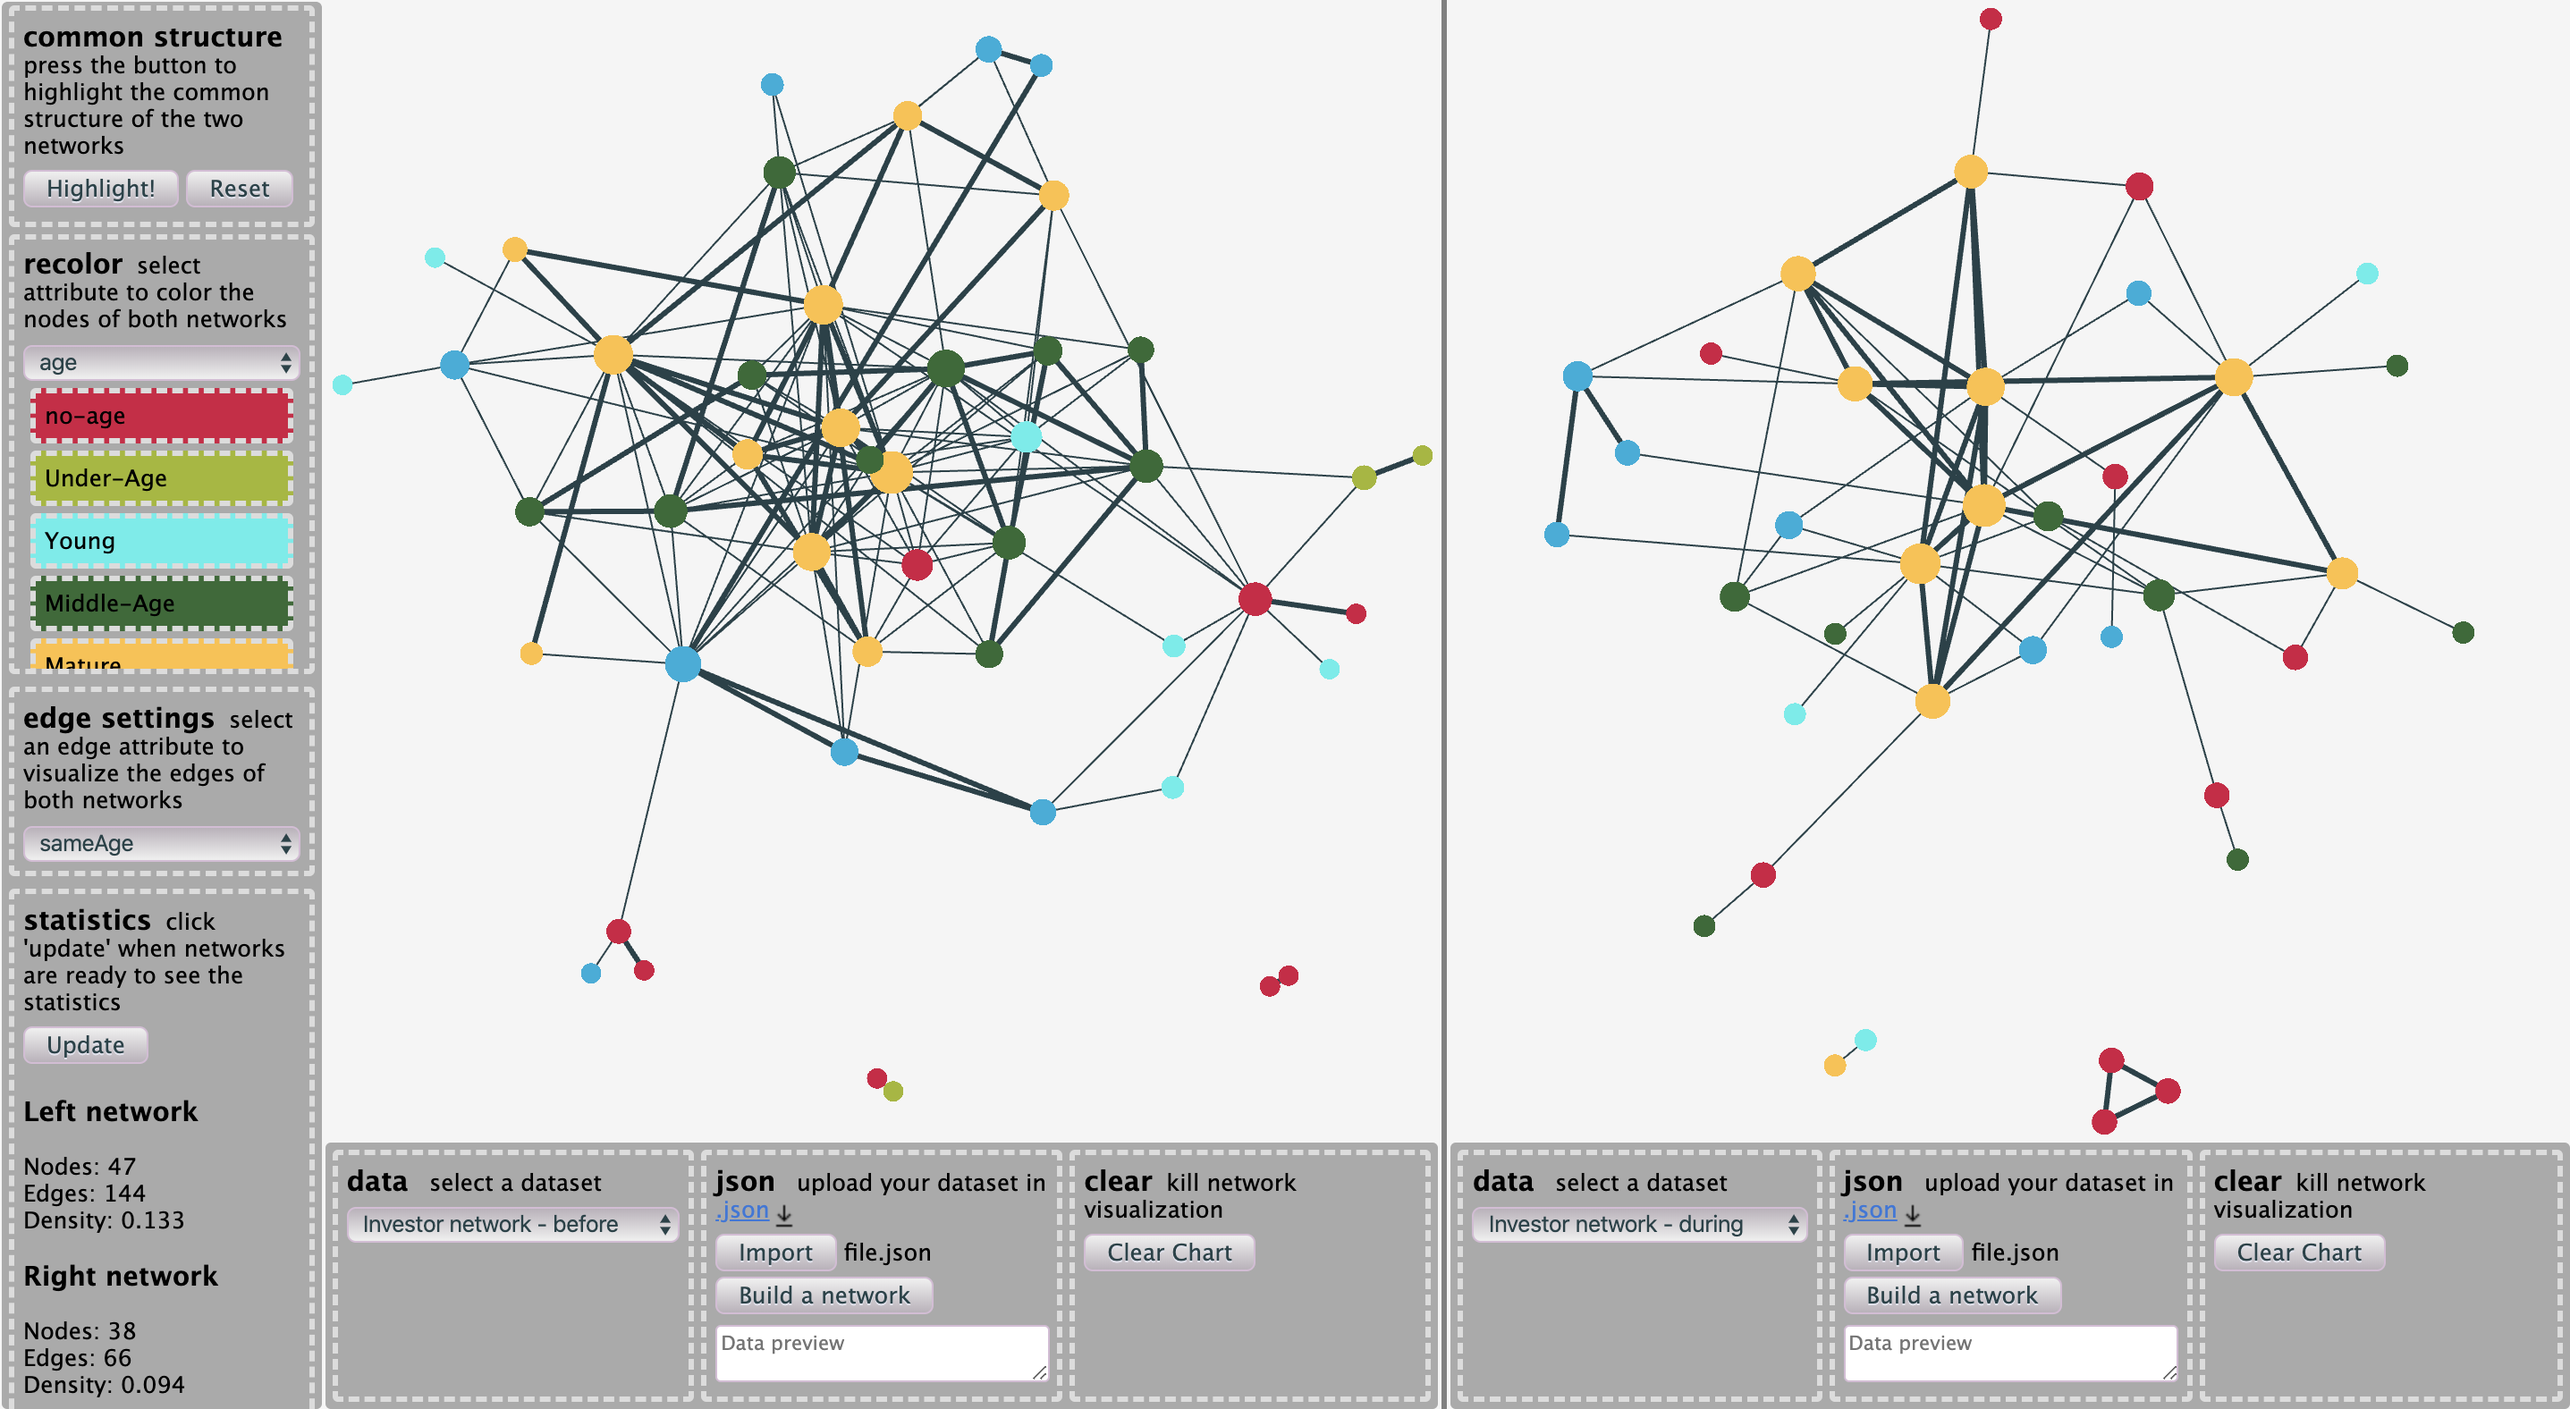
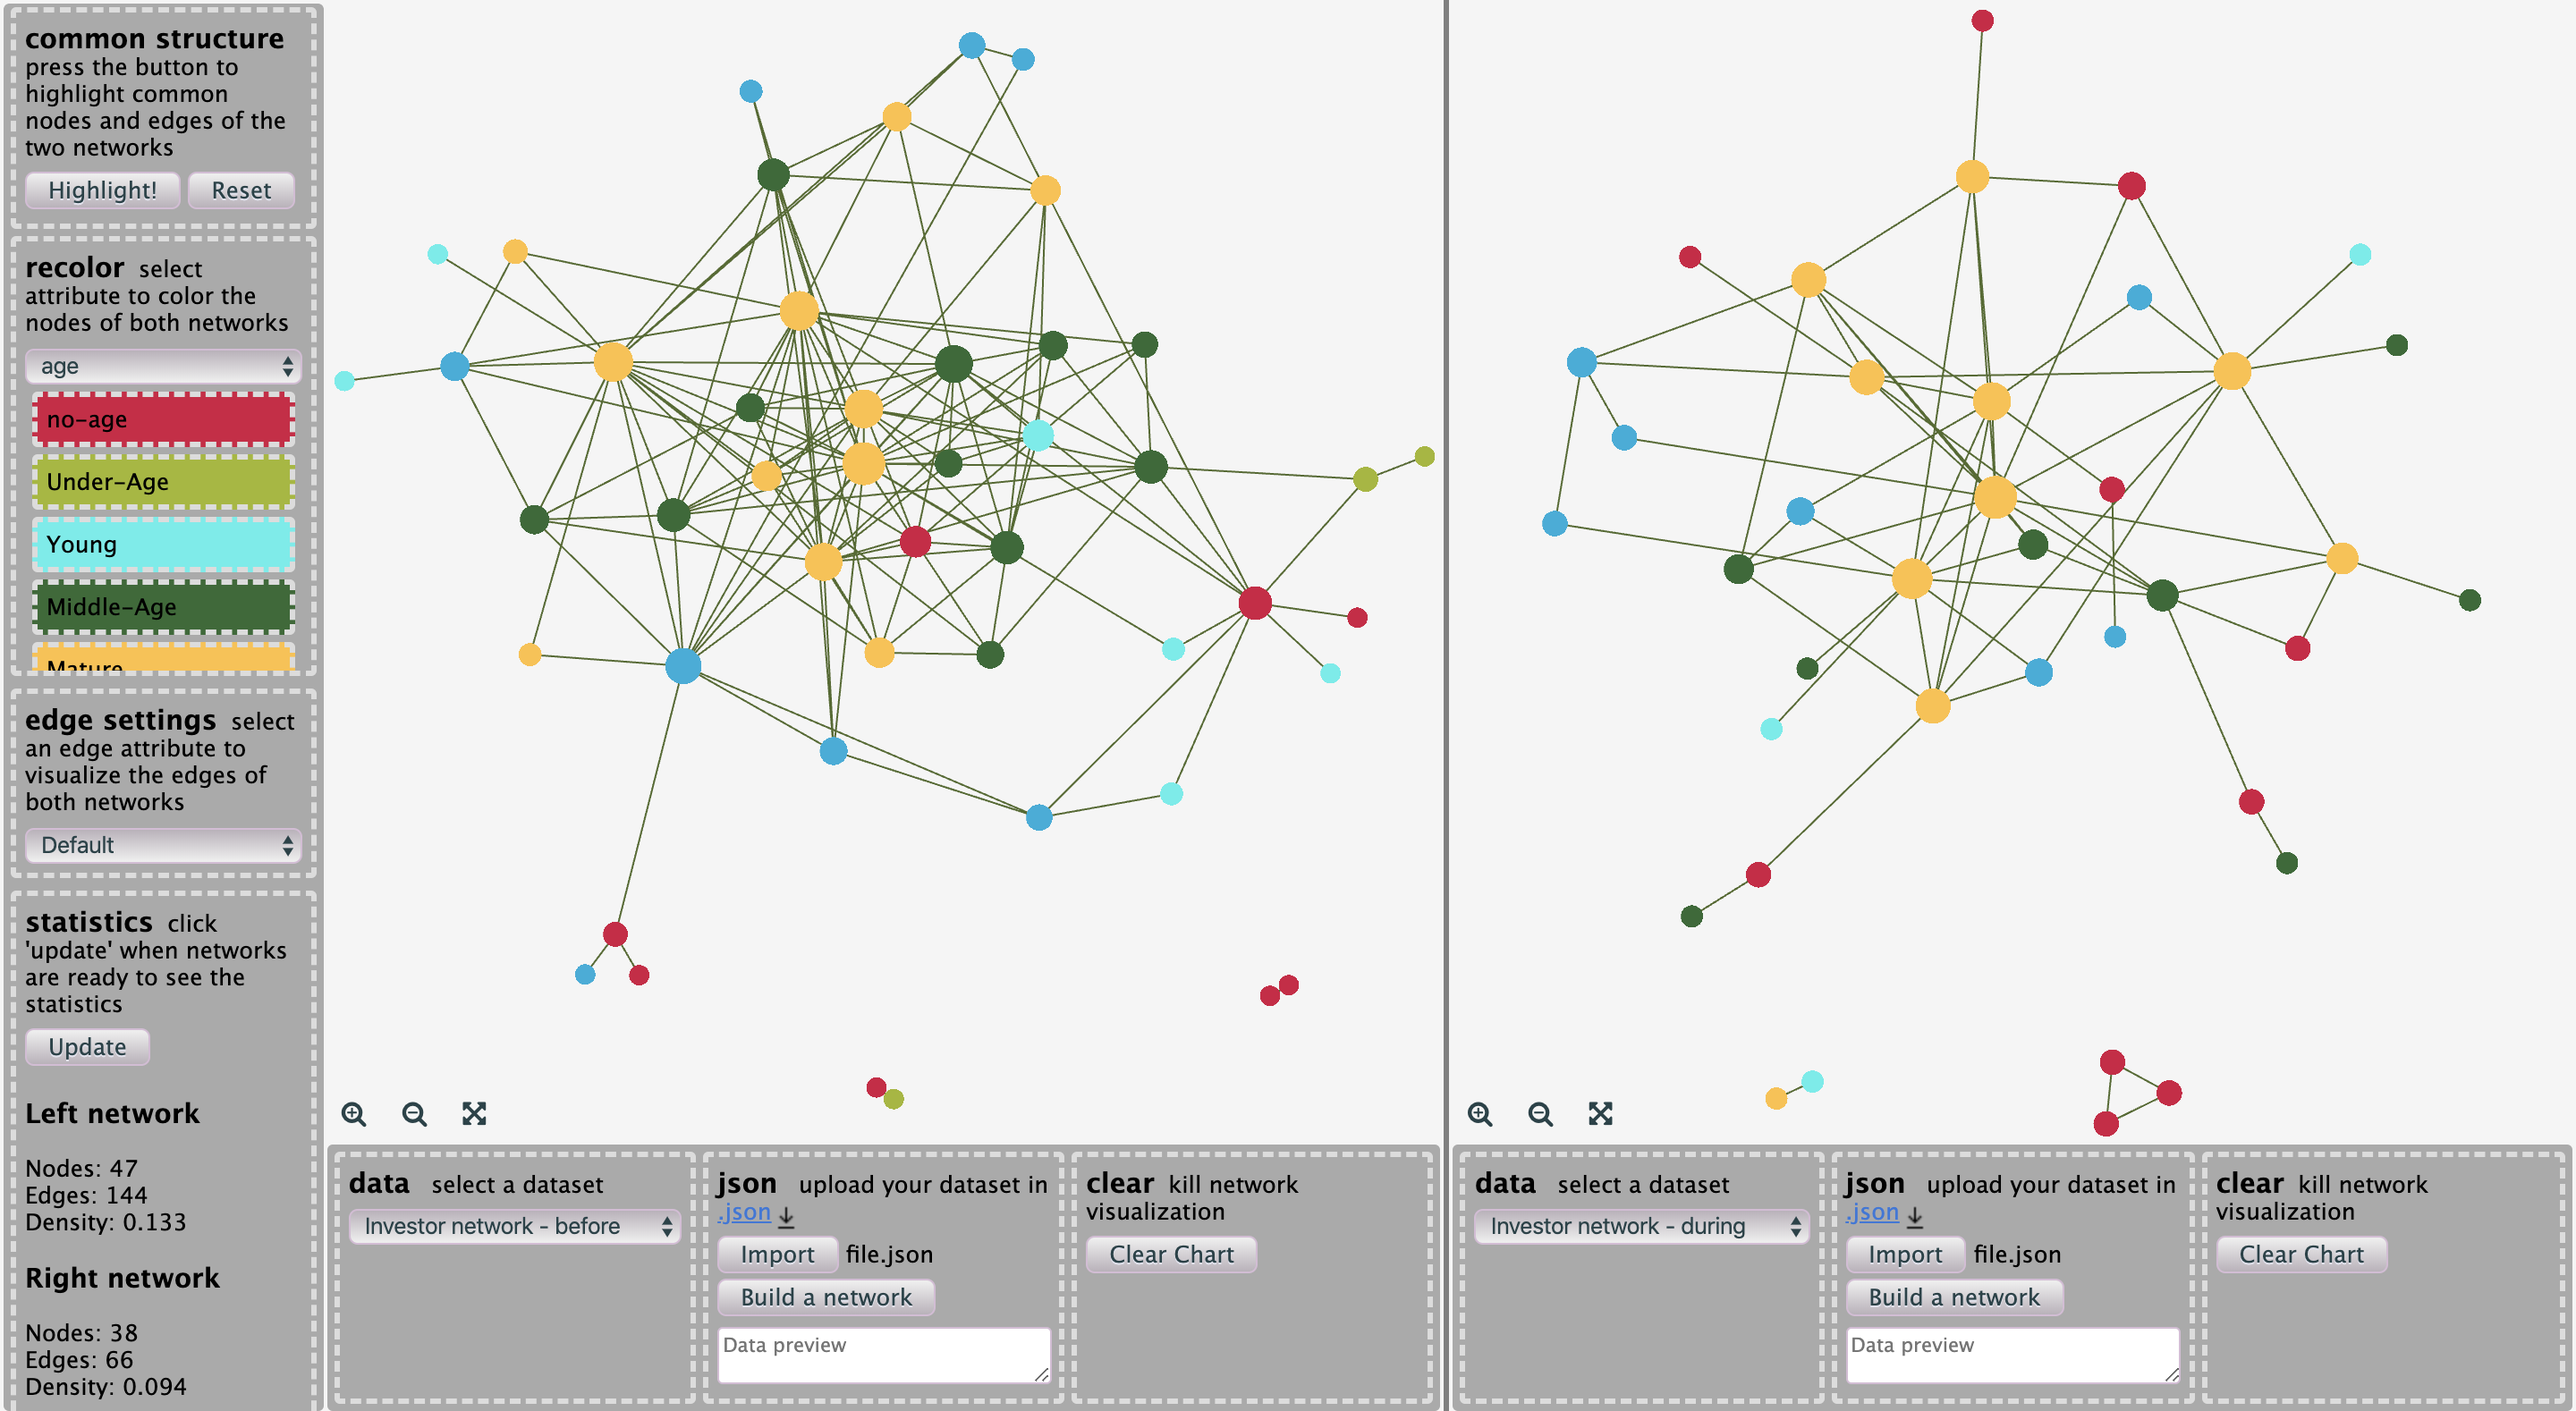
minor fixes and preview

diff --git a/public/js/public.js b/public/js/public.js
@@ -23,7 +23,7 @@ function refreshGraph(name, side, json, graph) {
                 maxNodeSize: 12,
                 defaultNodeColor: '#264249',
                 edgeColor: 'default',
-                defaultEdgeColor: '#264249',
+                defaultEdgeColor: '#526b2d',
                 minEdgeSize: 1,
                 maxEdgeSize: 3,
                 borderSize: 2,
@@ -675,9 +675,9 @@ function add_weight(index) {
     sigma.instances(0).graph.edges().forEach(e => {
         var weight = eval("e." + selection);
         e.size = weight;
-        e.color = e.originalColor;
-        e.originalColor = e.color;
-        e.color = weight > 0 ? "#dc143c" : e.color;
+        //e.color = e.originalColor;
+        //e.originalColor = e.color;
+        //e.color = weight > 0 ? "#dc143c" : e.color;
     }) 
 
     sigma.instances(0).startForceAtlas2();
@@ -686,9 +686,9 @@ function add_weight(index) {
     sigma.instances(1).graph.edges().forEach(e => {
         var weight = eval("e." + selection);
         e.size = weight;
-        e.color = e.originalColor;
-        e.originalColor = e.color;
-        e.color = weight > 0 ? "#dc143c" : e.color;
+        //e.color = e.originalColor;
+        //e.originalColor = e.color;
+        //e.color = weight > 0 ? "#dc143c" : e.color;
     })
 
     sigma.instances(1).startForceAtlas2();
